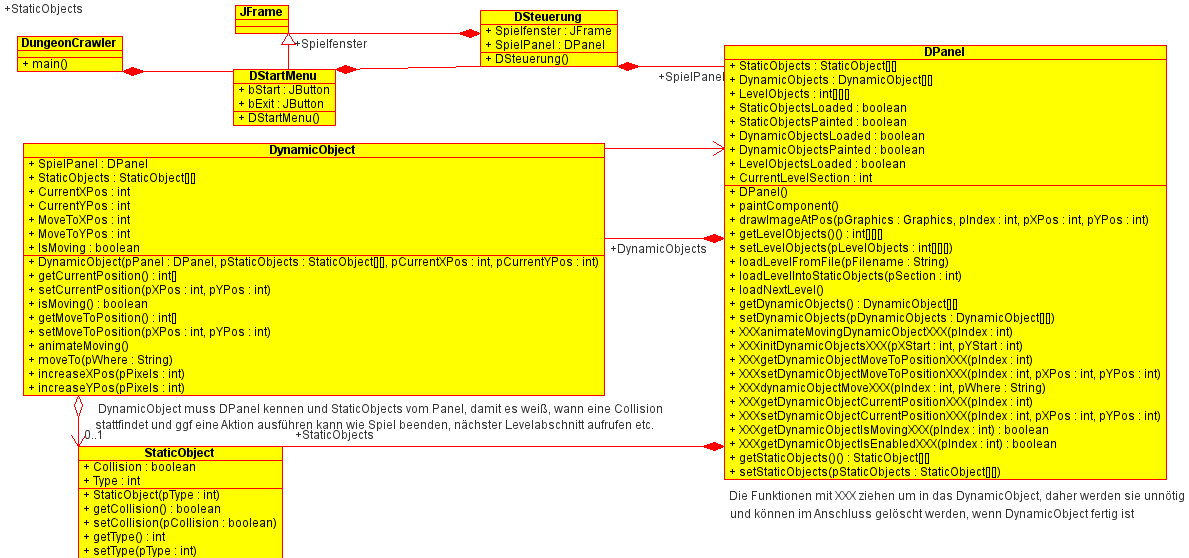
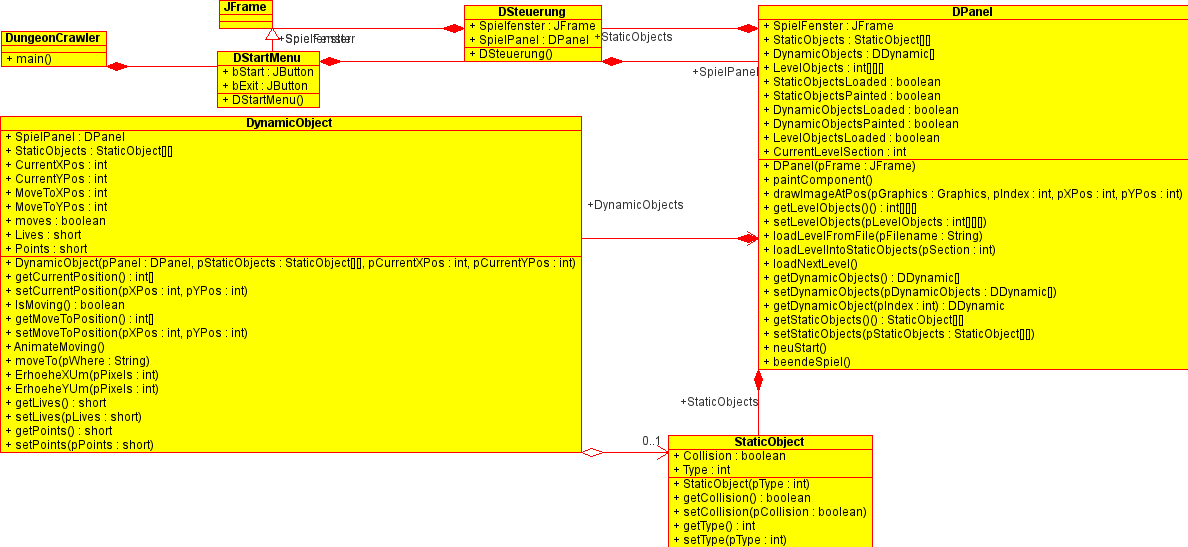
UML Diagramm und Spiel Beenden im Ziel

diff --git a/src/src/com/github/propa13_orga/gruppe71/DPanel.java b/src/src/com/github/propa13_orga/gruppe71/DPanel.java
@@ -84,7 +84,8 @@ public class DPanel extends JPanel {
 				//Wenn noch nichts initialisiert wurde
 				
 				this.DynamicObjects[0]= new DDynamic(this, StaticObjects, (TmpXStart*30), (TmpYStart*30)); //initialisiere, damit Objekt neben Eingang
-			
+				this.DynamicObjects[1]= new DDynamic(this, StaticObjects, (TmpXStart*30), (TmpYStart*30)); //initialisiere, damit Objekt neben Eingang
+				
 				this.DynamicObjectsLoaded = true;
 			}
 			

diff --git a/src/src/com/github/propa13_orga/gruppe71/DDynamic.java b/src/src/com/github/propa13_orga/gruppe71/DDynamic.java
@@ -69,7 +69,7 @@ public class DDynamic {
 			break;
 			
 		case 4: //Ziel erreicht NeuStart des Spiels
-			this.SpielPanel.neuStart();
+			this.SpielPanel.beendeSpiel();
 			break;
 		case 6: // Objekt ist ein Gegner/ eine Falle
 			this.SpielPanel.beendeSpiel(); // Spiel wird beendet, zurueck zu Startbildschirm
